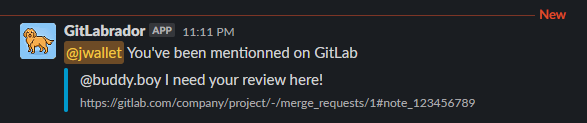
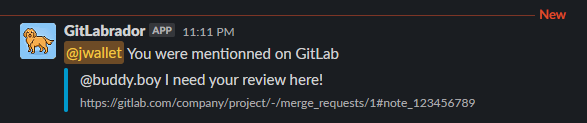
typo

Changed region(s): [[0.2147, 0.3659, 0.6133, 0.4878]]

diff --git a/handler.go b/handler.go
@@ -5,7 +5,11 @@ import (
 )
 
 func handle(event SlackEvent) error {
-	if event.Type != SLACK_BOT_READ_CHANNEL {
+	fmt.Println(event.Type)
+	if event.Type != "message" {
+		return fmt.Errorf("Bot can only handle messages.")
+	}
+	if event.Channel != SLACK_BOT_READ_CHANNEL {
 		return fmt.Errorf("Not monitoring the right channel, stopping.")
 	}
 	if event.Subtype != "bot_message" {

diff --git a/config.go b/config.go
@@ -9,7 +9,7 @@ type Environment string
 var USER_EMAIL_SPACE_REPLACER = "."
 
 var SLACK_BOT_NOTIFICATION_COLOR = "#0099CC"
-var SLACK_BOT_NOTIFICATION_GREATINGS = "You've been mentionned on GitLab"
+var SLACK_BOT_NOTIFICATION_GREATINGS = "You were mentionned on GitLab"
 
 // Environment variables
 
